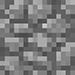
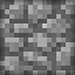
พรุ่งนี้ก็เสร็จ

Changed region(s): [[0.0, 0.0, 1.0, 1.0]]

diff --git a/src/application/Main.java b/src/application/Main.java
@@ -162,7 +162,7 @@ public class Main extends Application {
         return scene;
 
     }
-    public Scene SelectCha(Stage s){
+    public Scene   SelectCha(Stage s){
 
         Group root = new Group();
         Scene scene=new Scene(root);
@@ -283,17 +283,16 @@ public class Main extends Application {
 
         return scene;
     }
-    public Scene Game(int seleP1,int seleP2,int map) {
+    public Scene   Game(int seleP1,int seleP2,int map) {
         //setScene
-
+        int same=0;
         String       nameMap          ="bg"+map+".png";
         Weapon       defaultWeapon    = setDefaultWeapon(seleP1);
         Weapon       defaultWeapon2   = setDefaultWeapon(seleP2);
+        if(seleP1==seleP2)same=1;
+        Character    player           = setCharector(seleP1,1,defaultWeapon,0);
+        Character    player2          = setCharector(seleP2,2,defaultWeapon2,same);
 
-        Character    player           = setCharector(seleP1,1,defaultWeapon);
-        System.out.println(player.getSpeed());
-        Character    player2          = setCharector(seleP2,2,defaultWeapon2);
-        System.out.println(player2.getSpeed());
         Sprite       weaponInterFace  = new Sprite   (defaultWeapon .getFileName(),0,300);
         Sprite       weaponInterFace2 = new Sprite   (defaultWeapon2.getFileName(),1180,320);
         Sprite       blockInterFace   = new Sprite   ("block0.png",15,195);
@@ -356,15 +355,15 @@ public class Main extends Application {
         AnimationTimer timer = new AnimationTimer() {
             double lastNanoTime = System.nanoTime() ;
             int count=0,count2=0,countWeapon=0,countAll=0,countB1=0,countB2=0;
-
+            int countLimitWeapon=0;
             @Override
             public void handle(long now) {
 
                 double elapsedTime = (now - lastNanoTime) / 10000000.0;
                 lastNanoTime = now;
                 count++;  count2++; countWeapon++; countAll++; countB1++; countB2++;
-                double Rate=count/10.0,Rate2=count2/10.0,RateWeapon=countWeapon/60.0,RateAll=countAll/10.0,
-                RateB1=countB1/60.0 ,RateB2=countB2/60.0;
+                double Rate  =count/10.0,   Rate2 =count2/10.0,RateWeapon=countWeapon/60.0,RateAll=countAll/10.0,
+                       RateB1=countB1/60.0 ,RateB2=countB2/60.0;
 
                 if (isPressed(KeyCode.W) && collision(player, blockList, "UP")&&player.getTranslateY()>55) {
                     player.animation.play();
@@ -513,12 +512,14 @@ public class Main extends Application {
                 }
 
                 //this is a random weapon
-                if(RateWeapon>10){
+                if(RateWeapon>7&&countLimitWeapon<=5){
                     Weapon weapon;
                     do {
                         weapon=createWeapon();
                     }while (checkRender(blockList,weaponsList,weapon));
                     weaponsList.add(weapon);
+                    countLimitWeapon++;
+                    System.out.println(countLimitWeapon);
                     countWeapon=0;
                 }
 
@@ -529,10 +530,12 @@ public class Main extends Application {
                             if (player.intersects(weaponsList.get(i))) {
                                 playSoundWeapon(4,0.4);
                                 player.getMag();
+                                countLimitWeapon--;
                                 weaponsList.remove(i);
                             } else
                             if (player2.intersects(weaponsList.get(i))) {
                                 player2.getMag();
+                                countLimitWeapon--;
                                 weaponsList.remove(i);
                             }
                         }else
@@ -544,6 +547,7 @@ public class Main extends Application {
                                     weaponInterFace.setImage("in" + weaponsList.get(i).getFileName());
                                     System.out.println(weaponsList.get(i).getFileName());
                                 }
+                                countLimitWeapon--;
                                 weaponsList.remove(i);
                             } else
                             if (player2.intersects(weaponsList.get(i))) {
@@ -553,6 +557,7 @@ public class Main extends Application {
                                     weaponInterFace2.setImage("in" + weaponsList.get(i).getFileName());
                                     ly.clearRect(1425, 390, 120, 120);
                                 }
+                                countLimitWeapon--;
                                 weaponsList.remove(i);
                             }
                         }
@@ -636,10 +641,12 @@ public class Main extends Application {
         timer.start();
         return scene;
     }
-    public Character setCharector(int playerType,int playerNum,Weapon weapon){
-        String name="charector/playchar"+playerType+".png";
-        System.out.println(name);
-        Image        image = new Image(name);// specify character image
+    public Character setCharector(int playerType,int playerNum,Weapon weapon,int same){
+
+        String pre="charector/",name="playchar"+playerType+".png";
+        if(same==1)name="2_"+name;
+
+        Image        image = new Image(pre+name);// specify character image
         ImageView    imageView = new ImageView(image);// show image
         Character    player=new Character();
         if(playerType==0){
@@ -667,7 +674,7 @@ public class Main extends Application {
 
         return player;
     }
-    public Weapon setDefaultWeapon(int playerType){
+    public Weapon  setDefaultWeapon(int playerType){
         Weapon weapon=new Weapon();
         weapon =new Weapon(playerType,"inweapon"+playerType+".png");
         return weapon;
@@ -737,10 +744,10 @@ public class Main extends Application {
 
         block=player.buildBlock();
         block.setPosition(bx,by);
-
+        block.setChange(0);
         return block;
     }
-    public void genMap     (ArrayList<Block> blocks,int map){
+    public void    genMap     (ArrayList<Block> blocks,int map){
         int px=73,py=52,count=0,index=0;
         // 15x9 block All 120
         int type=map;

diff --git a/src/application/Block.java b/src/application/Block.java
@@ -7,6 +7,8 @@ public class Block extends Sprite {
     private int type;
     private int durabillity;
     private int maxDurabillity;
+    private int change=0;
+    private String originFileName;
     public Block(){
 
     }
@@ -32,7 +34,15 @@ public class Block extends Sprite {
             super.setImage(name+"3.png");
             this.maxDurabillity=22;
         }
+        this.originFileName=this.getFileName();
         this.durabillity = maxDurabillity;
+    }
+    public String getOriginFileName() {
+        return originFileName;
+    }
+
+    public void setOriginFileName(String originFileName) {
+        this.originFileName = originFileName;
     }
 
     public void setDurabillity(int durabillity) {
@@ -43,7 +53,20 @@ public class Block extends Sprite {
     }
     public void hit(int damage){
         this.durabillity-=damage;
+        if(change==0&&this.durabillity<this.maxDurabillity/2){
+            this.setImage("2_"+this.getFileName());
+            change=1;
+        }
     }
+
+    public int getChange() {
+        return change;
+    }
+
+    public void setChange(int change) {
+        this.change = change;
+    }
+
     public int getMaxDurabillity() {
         return maxDurabillity;
     }

diff --git a/src/application/Character.java b/src/application/Character.java
@@ -56,7 +56,7 @@ public class Character extends Pane {
 		getChildren().addAll(imageView);
 	}
 
-	public Character(ImageView imageView) {
+	public void setImageView(ImageView imageView) {
 		this.imageView = imageView;
 		this.imageView.setViewport(new Rectangle2D(offsetX, offsetY, width, height));
 		animation = new SpriteAnimation(imageView, Duration.millis(200), count, columns, offsetX, offsetY, width,
@@ -174,12 +174,14 @@ public class Character extends Pane {
 		int bullet=0;
 
 		if(this.getTypeWeapon()==0){bullet=5;}
-		if(this.getTypeWeapon()==1){bullet=12;}
+		if(this.getTypeWeapon()==1){bullet=21;}
 		if(this.getTypeWeapon()==2) {bullet=10;}
-		if(this.getTypeWeapon()==3){bullet=20;}
-		this.bullet+=bullet;
+		if(this.getTypeWeapon()==3){bullet=30;}
+		this.bullet=bullet;
 	}
 	public void getBlock(Block block){
+		System.out.println(block.getOriginFileName());block.setImage(block.getOriginFileName());
+
 		stackBlock.add(block);
 	}
 	public String getNameFirstBlock(){

diff --git a/src/application/Sprite.java b/src/application/Sprite.java
@@ -14,6 +14,7 @@ public class Sprite {
 	private double height;
 	private String fileName;
 
+
 	public Sprite() {
 		positionX = 0;
 		positionY = 0;
@@ -23,7 +24,9 @@ public class Sprite {
 	public Sprite(String filename,int x,int y) {
 		this.fileName=filename;
 		this.setImage(filename);
+
 		this.setPosition(x,y);
+
 	}
 
 	public void setImage(Image i) {
@@ -51,6 +54,8 @@ public class Sprite {
 		velocityX += x;
 		velocityY += y;
 	}
+
+
 	public double getPositionX() {
 		return positionX;
 	}
